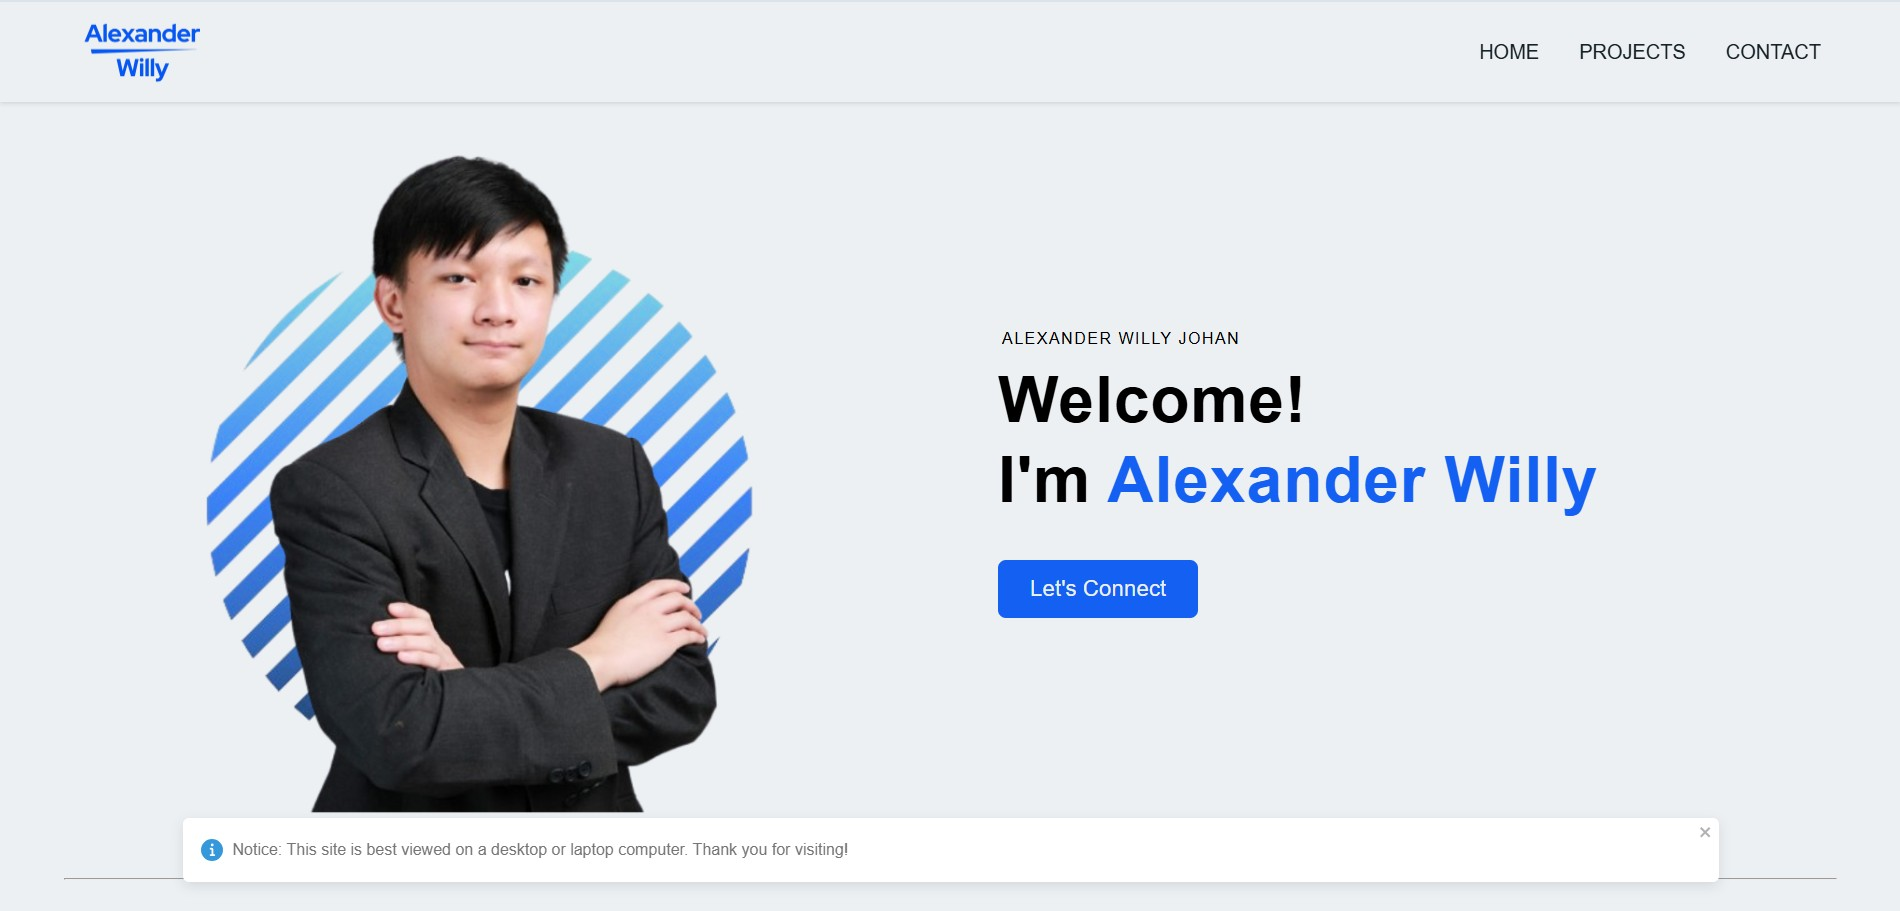
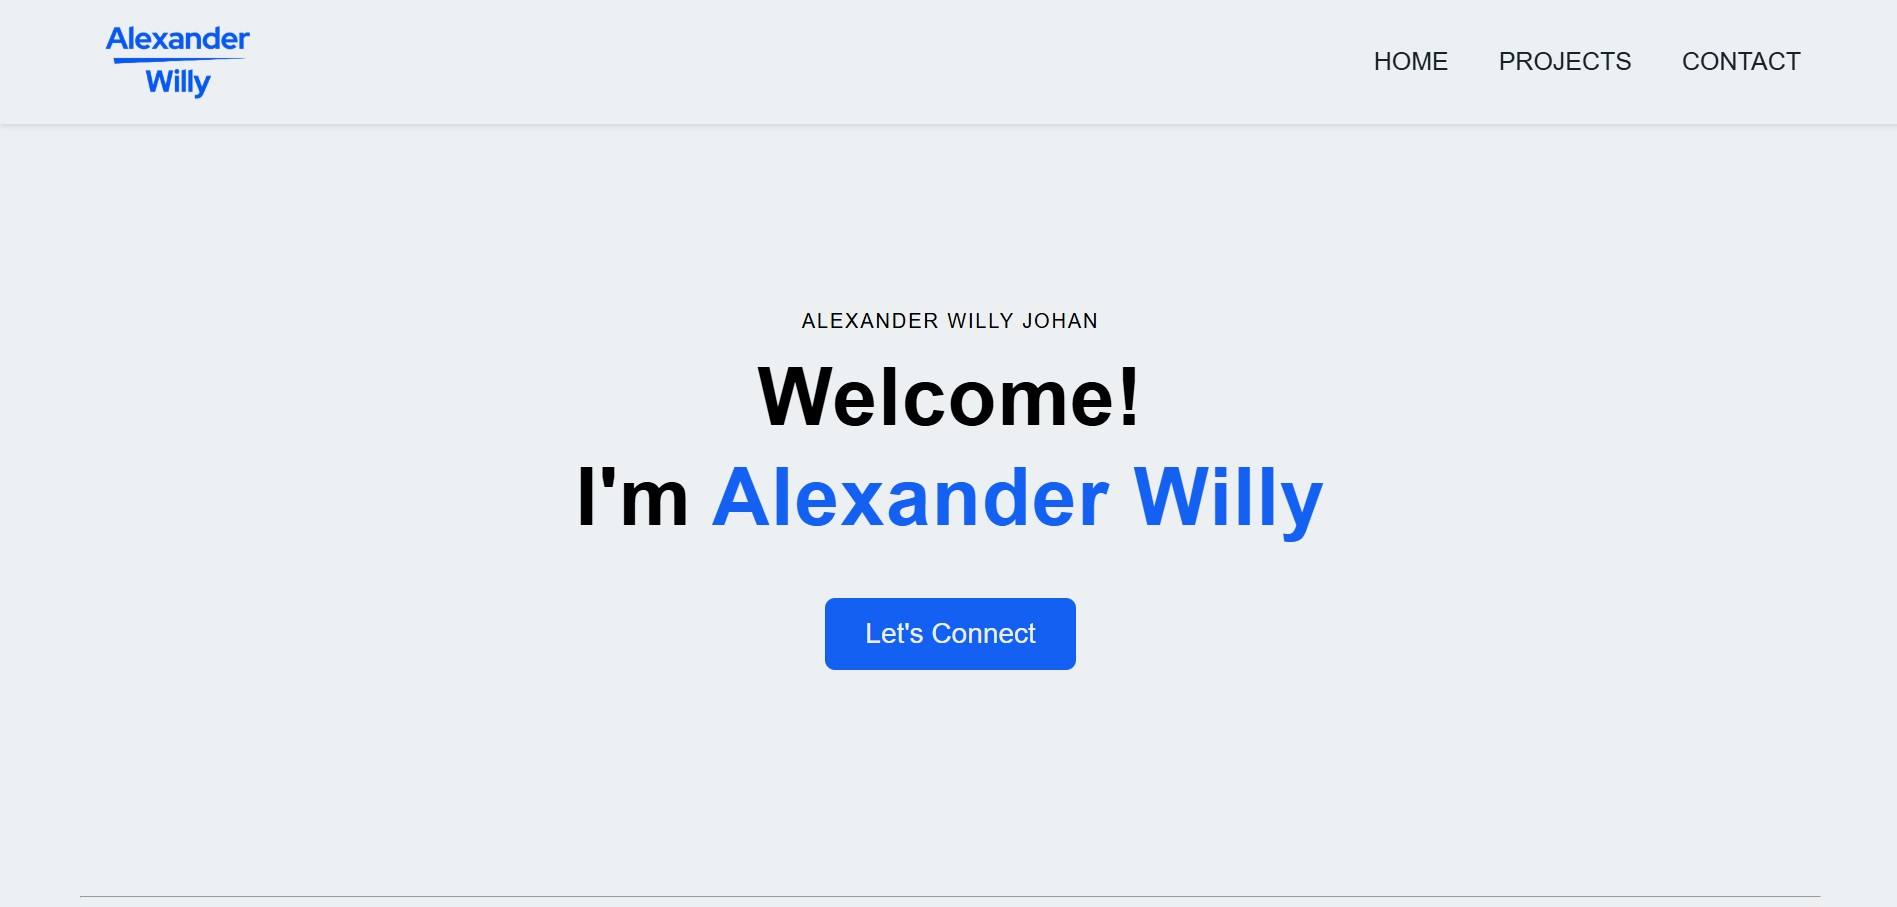
modify hero

diff --git a/src/views/styles/Home.css b/src/views/styles/Home.css
@@ -32,7 +32,8 @@ hr{
 }
 
 .hero-content{
-    width: 50%;
+    width: 100%;
+    height: 72vh;
     display: flex;
     align-items: center;
     justify-content: center;
@@ -45,9 +46,18 @@ hr{
   color: black;
 }
 
-#hero-image{
-    height: 75vh;
-    animation: slide_up 1.5s ease;
+
+
+
+
+.hero-content-container{
+    display: flex;
+    flex-direction: column;
+    gap: 16px;
+    
+    align-items: center;
+    width: 90%;
+    animation: slide_up 1.75s ease;
 }
 
 @keyframes slide_up {
@@ -60,28 +70,6 @@ hr{
     opacity: 1;
   }
   
-}
-
-
-.hero-content-container{
-    display: flex;
-    flex-direction: column;
-    gap: 16px;
-    
-    align-items: flex-start;
-    width: 90%;
-    animation: slide_right 1.75s ease;
-}
-
-@keyframes slide_right {
-  0% {
-    transform: translateX(-5%);
-    opacity: 0;
-  }
-  100% {
-    transform: translateX(0%);
-    opacity: 1;
-  }
 }
 
 .section-heading span{
@@ -99,9 +87,9 @@ hr{
     flex-direction: column;
     gap: 16px;
     
-    align-items: flex-start;
+    align-items: center;
     width: 90%;
-    animation: slide_right 1.5s ease;
+    animation: slide_up 1.5s ease;
 }
 
 .hero-content-container-button{
@@ -617,13 +605,6 @@ footer{
 
   .hero-content{
     width: 100%;
-  }
-
-  #hero-image{
-    height: 75vw;
-  }
-
-  .hero-content{
     text-align: center;
   }
 
@@ -782,10 +763,6 @@ footer{
   }
 
   /* Hero Section */
-  #hero-image{
-    height: 45vh;
-  }
-
   .hero-content{
     gap: 24px;
   }

diff --git a/src/views/Home.jsx b/src/views/Home.jsx
@@ -3,7 +3,6 @@ import {Link, useNavigate} from "react-router-dom";
 
 import Navbar from "../components/Navbar";
 
-import display_image from "../media/home_pic.png"
 // experience
 import cogoport_logo from "../media/experience/cogoport_logo.jpg"
 import pt__treessolutions_logo from "../media/experience/pt__trees_solutions_logo.jpeg"
@@ -74,7 +73,6 @@ function Home(){
     };
 
     const home_image_maps = {
-        "display_image":display_image,
         // experience logo
         "cogoport_logo":cogoport_logo,
         "pt__trees_solutions_logo":pt__treessolutions_logo,
@@ -211,9 +209,6 @@ function Home(){
             <Navbar />
             {/* Hero Section */}
             <section className = "hero">
-                <article className = "hero-content">
-                    <img src = {home_image_maps[info.display_image]} alt = "Hero" id = "hero-image" />
-                </article>
                 <article className = "hero-content">
                     <div className = "hero-content-container"> 
                         <h5 className = "section-subheading">{info.full_name == null ? "FULL NAME" : info.full_name.toUpperCase() }</h5>
